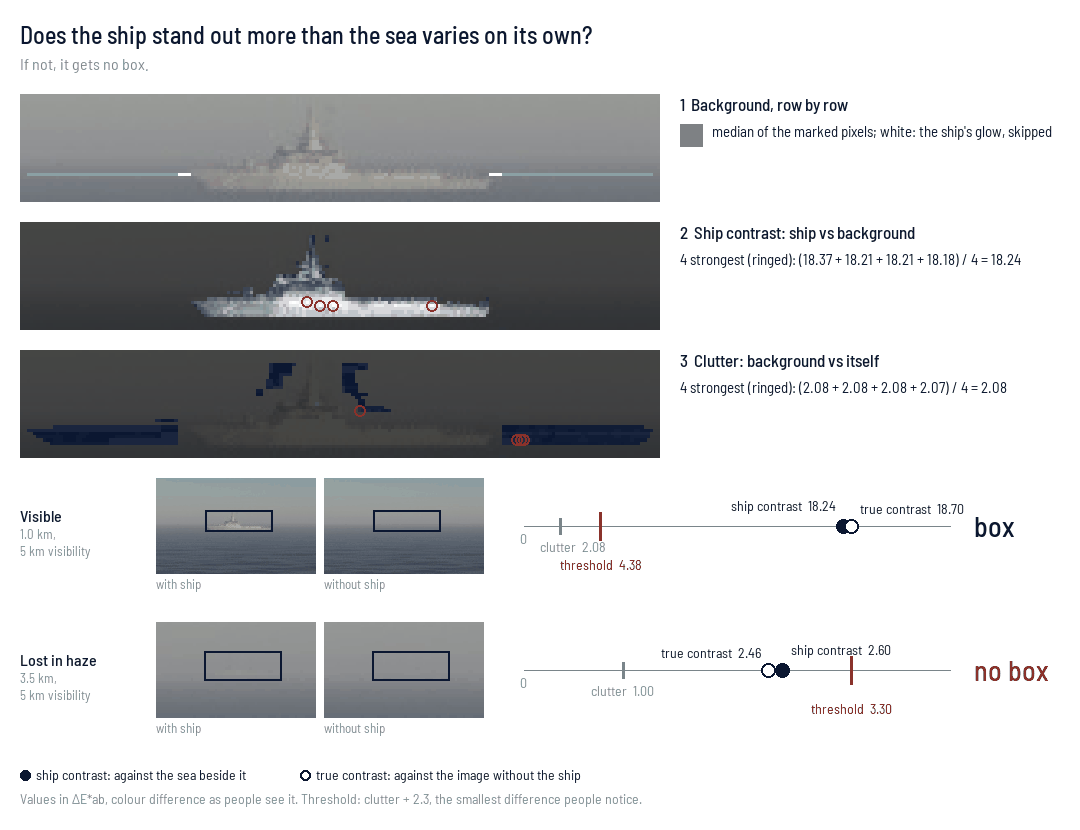
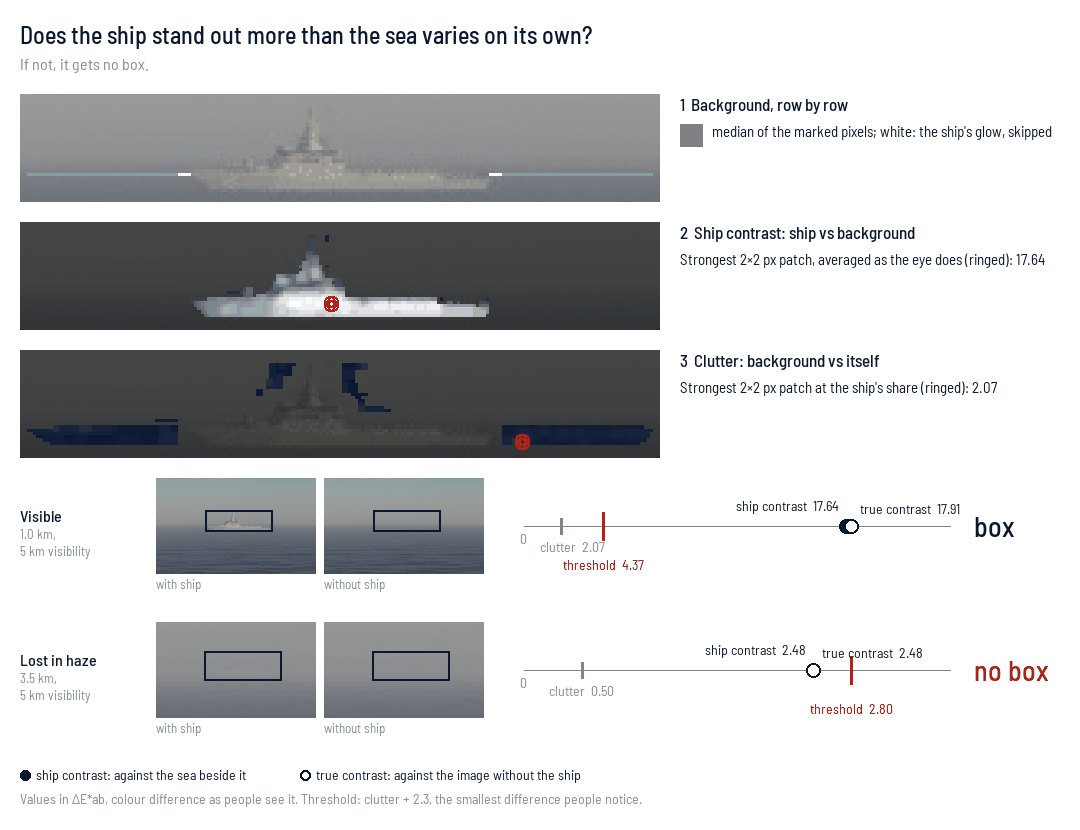
docs: the visibility figure shows the pooled patches

diff --git a/docs/visibility.py b/docs/visibility.py
@@ -236,16 +236,29 @@ def main(out: Path) -> None:
     sums = [
         " + ".join(f"{d:.2f}" for d in values[:5]) for values in (ship_top, sea_top)
     ]
+    patch = f"{labels.POOL_PX}\N{MULTIPLICATION SIGN}{labels.POOL_PX} px"
+
+    def pooled(values: np.ndarray, sum_text: str, total: float, single: str) -> str:
+        """One patch whose pixels all carry its value reads as that patch."""
+        if len(np.unique(np.round(values, 2))) == 1:
+            return f"{single} (ringed): {total:.2f}"
+        more = " + …" if len(values) > 5 else ""
+        return (
+            f"{len(values)} strongest, each averaged over {patch} (ringed):\n"
+            f"({sum_text}{more}) / {len(values)} = {total:.2f}"
+        )
+
     steps = [
         (panel(marked), "1  Background, row by row",
          "median of the marked pixels; white: the ship's glow, skipped"),
         (panel(heat(rgb, mask, delta_e, hot), ship_at - corner),
          "2  Ship contrast: ship vs background",
-         f"{K} strongest (ringed): ({sums[0]}) / {K} = {v['ship']:.2f}"),
+         pooled(ship_top, sums[0], v["ship"],
+                f"Strongest {patch} patch, averaged as the eye does")),
         (panel(heat(rgb, beside, delta_e, hot), sea_at - corner),
          "3  Clutter: background vs itself",
-         f"{len(sea_top)} strongest (ringed): ({sums[1]}"
-         f"{' + …' if len(sea_top) > 5 else ''}) / {len(sea_top)} = {v['sea']:.2f}"),
+         pooled(sea_top, sums[1], v["sea"],
+                f"Strongest {patch} patch at the ship's share")),
     ]  # fmt: skip
     sheet = Image.new("RGB", (WIDTH_PX, 2000), "white")
     draw = ImageDraw.Draw(sheet)
